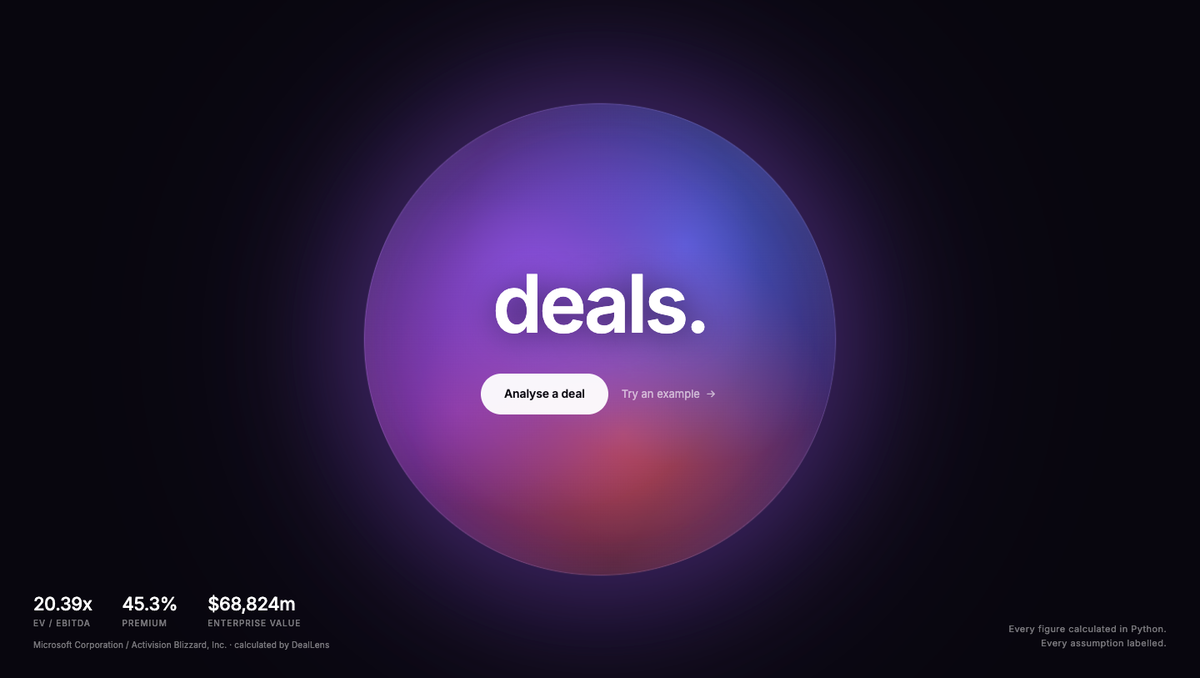
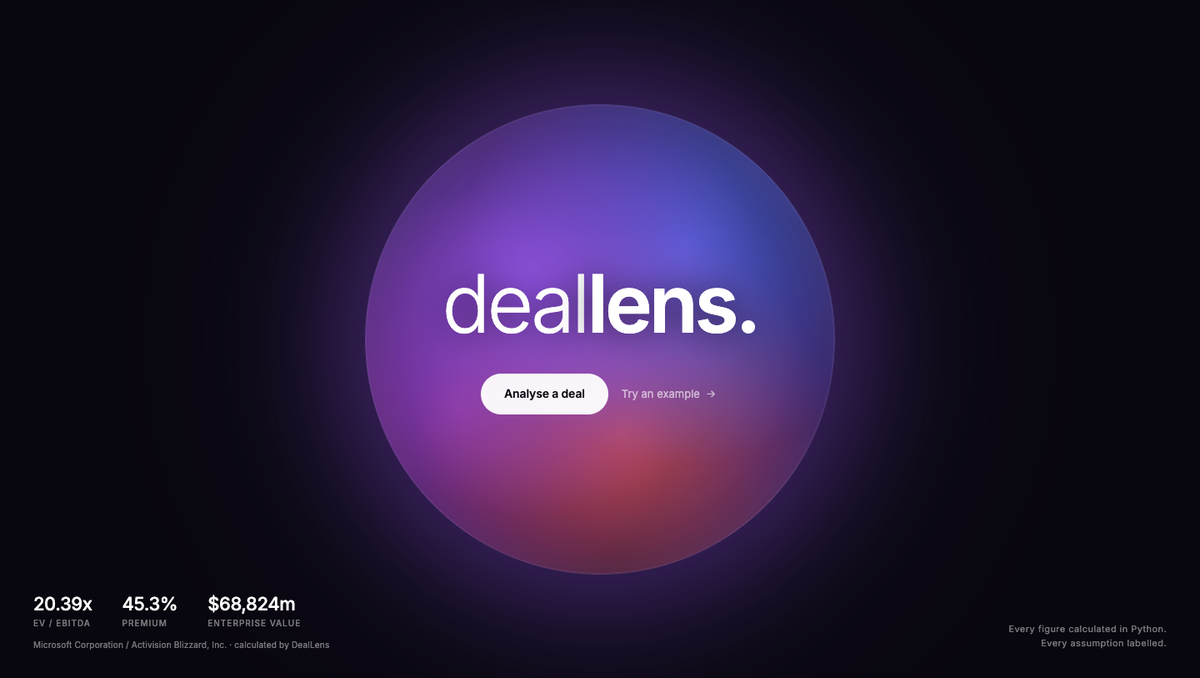
Landing headline: "deal" light + "lens." bold

Changed region(s): [[0.37, 0.4027, 0.6475, 0.4956]]

diff --git a/ui/home.py b/ui/home.py
@@ -95,8 +95,9 @@ def landing_html(stats: Optional[list[tuple[str, str]]], example_title: str = ""
   50% {{ transform: scale(1.025); filter: brightness(1.07); }} }}
 .dl-content {{ position: relative; z-index: 5; text-align: center; display: flex; flex-direction: column;
   align-items: center; }}
-.dl-headline {{ font-size: clamp(52px, 10vw, 96px); font-weight: 600; letter-spacing: -0.04em;
+.dl-headline {{ font-size: clamp(52px, 10vw, 96px); font-weight: 300; letter-spacing: -0.04em;
   line-height: 1.0; color: #fff; text-shadow: 0 2px 40px rgba(0,0,0,0.6); margin-bottom: 36px; }}
+.dl-headline strong {{ font-weight: 600; }}
 .dl-actions {{ display: flex; gap: 12px; align-items: center; flex-wrap: wrap; justify-content: center; }}
 .dl-primary {{ background: rgba(255,255,255,0.95); color: #08060E !important; font-weight: 600; font-size: 14px;
   padding: 13px 28px; border-radius: 50px; transition: opacity .2s; letter-spacing: -0.01em; }}
@@ -122,7 +123,7 @@ def landing_html(stats: Optional[list[tuple[str, str]]], example_title: str = ""
 <div class="dl-landing">
   <div class="dl-orb-wrap"><div class="dl-orb"></div></div>
   <div class="dl-content">
-    <h1 class="dl-headline">deals.</h1>
+    <h1 class="dl-headline">deal<strong>lens.</strong></h1>
     <div class="dl-actions">
       <a href="?go=new" target="_self" class="dl-primary">Analyse a deal</a>
       {example_link}

diff --git a/tests/test_app.py b/tests/test_app.py
@@ -58,7 +58,7 @@ def landing(at: AppTest) -> str:
 def test_app_opens_on_the_landing_page():
     at = AppTest.from_file(APP, default_timeout=30).run()
     page = landing(at)
-    assert '<h1 class="dl-headline">deals.</h1>' in page
+    assert '<h1 class="dl-headline">deal<strong>lens.</strong></h1>' in page
     assert 'href="?go=new" target="_self" class="dl-primary">Analyse a deal</a>' in page
     assert 'href="?go=example" target="_self" class="dl-ghost">Try an example' in page
     assert not at.sidebar.selectbox                                   # no deal shown by default

diff --git a/CLAUDE.md b/CLAUDE.md
@@ -184,7 +184,7 @@ python -m pytest -v                        # run all tests
 - **Step 8 — Visual polish + landing page: COMPLETE.** 274 tests. Sidebar
   sections Home / Example & saved deals / New deal (radio key `mode`; deal
   selectbox key `deal`); landing page `ui/home.py`. **Replaced (29 Sep 2026)
-  by Anna's dark "deals." landing design**, rendered with `st.html`; all CSS
+  by Anna's dark landing design** (headline "deal**lens.**": light "deal", bold "lens."), rendered with `st.html`; all CSS
   scoped under `.dl-landing` (never `html`/`body`/`:root`); links
   `?go=new` / `?go=example` handled in `app.py` before the sidebar is drawn,
   then `st.query_params.clear()`. The mock-up's stats (10.4× / 23.6% /
